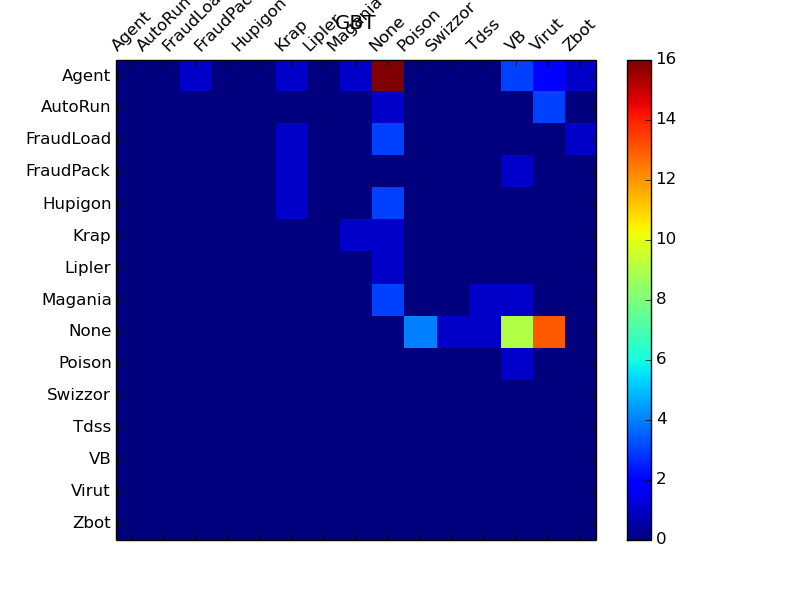
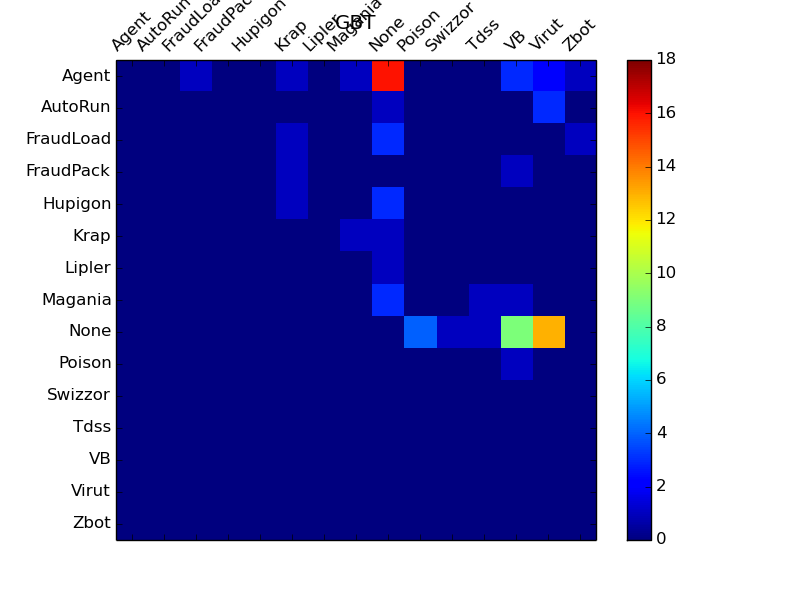
miss

diff --git a/Practical 3/svm.py b/Practical 3/svm.py
@@ -50,7 +50,7 @@ for params, mean_score, scores in svm_cv.grid_scores_:
             (mean_score, scores.std(), params))
 
 
-
+from sklearn.svm import SVC
 svm_best = SVC(C=30, kernel='poly', degree=2, coef0=1.0,
           cache_size=2000, max_iter=-1)
 y_pred = svm_best.fit(X_train, y_train).predict(X_test)
@@ -73,7 +73,7 @@ target_names =  ['Agent', 'AutoRun',
                  'VB', 'Virut', 'Zbot']
 fig = plt.figure()
 ax = fig.add_subplot(111)
-cax = ax.matshow(miss, interpolation='nearest')
+cax = ax.matshow(miss, interpolation='nearest', vmin=0, vmax=18)
 fig.colorbar(cax)
 plt.xticks(range(len(target_names)), target_names, rotation=45)
 plt.yticks(range(len(target_names)), target_names)

diff --git a/Practical 3/rf.py b/Practical 3/rf.py
@@ -105,8 +105,8 @@ plt.show()
 plt.savefig('miss/' + model + '.png')
 
 
-y_pred = erf.predict(X_test)
-model = 'ERF'
+y_pred = rf.predict(X_test)
+model = 'RF'
 
 miss = np.zeros((15,15), dtype=int)
 for i in xrange(len(y_test)):
@@ -125,7 +125,7 @@ target_names =  ['Agent', 'AutoRun',
                  'VB', 'Virut', 'Zbot']
 fig = plt.figure()
 ax = fig.add_subplot(111)
-cax = ax.matshow(miss, interpolation='nearest')
+cax = ax.matshow(miss, interpolation='nearest', vmin=0, vmax=18)
 fig.colorbar(cax)
 plt.xticks(range(len(target_names)), target_names, rotation=45)
 plt.yticks(range(len(target_names)), target_names)

diff --git a/Practical 3/logistic.py b/Practical 3/logistic.py
@@ -115,7 +115,7 @@ target_names =  ['Agent', 'AutoRun',
                  'VB', 'Virut', 'Zbot']
 fig = plt.figure()
 ax = fig.add_subplot(111)
-cax = ax.matshow(miss, interpolation='nearest')
+cax = ax.matshow(miss, interpolation='nearest', vmin=0, vmax=18)
 fig.colorbar(cax)
 plt.xticks(range(len(target_names)), target_names, rotation=45)
 plt.yticks(range(len(target_names)), target_names)

diff --git a/Practical 3/gbt.py b/Practical 3/gbt.py
@@ -99,7 +99,7 @@ target_names =  ['Agent', 'AutoRun',
                  'VB', 'Virut', 'Zbot']
 fig = plt.figure()
 ax = fig.add_subplot(111)
-cax = ax.matshow(miss, interpolation='nearest')
+cax = ax.matshow(miss, interpolation='nearest', vmin=0, vmax=18)
 fig.colorbar(cax)
 plt.xticks(range(len(target_names)), target_names, rotation=45)
 plt.yticks(range(len(target_names)), target_names)

diff --git a/Practical 3/knn.py b/Practical 3/knn.py
@@ -90,7 +90,7 @@ target_names =  ['Agent', 'AutoRun',
                  'VB', 'Virut', 'Zbot']
 fig = plt.figure()
 ax = fig.add_subplot(111)
-cax = ax.matshow(miss, interpolation='nearest')
+cax = ax.matshow(miss, interpolation='nearest', vmin=0, vmax=18)
 fig.colorbar(cax)
 plt.xticks(range(len(target_names)), target_names, rotation=45)
 plt.yticks(range(len(target_names)), target_names)

diff --git a/Practical 3/lda.py b/Practical 3/lda.py
@@ -53,7 +53,7 @@ target_names =  ['Agent', 'AutoRun',
                  'VB', 'Virut', 'Zbot']
 fig = plt.figure()
 ax = fig.add_subplot(111)
-cax = ax.matshow(miss, interpolation='nearest')
+cax = ax.matshow(miss, interpolation='nearest', vmin=0, vmax=18)
 fig.colorbar(cax)
 plt.xticks(range(len(target_names)), target_names, rotation=45)
 plt.yticks(range(len(target_names)), target_names)
